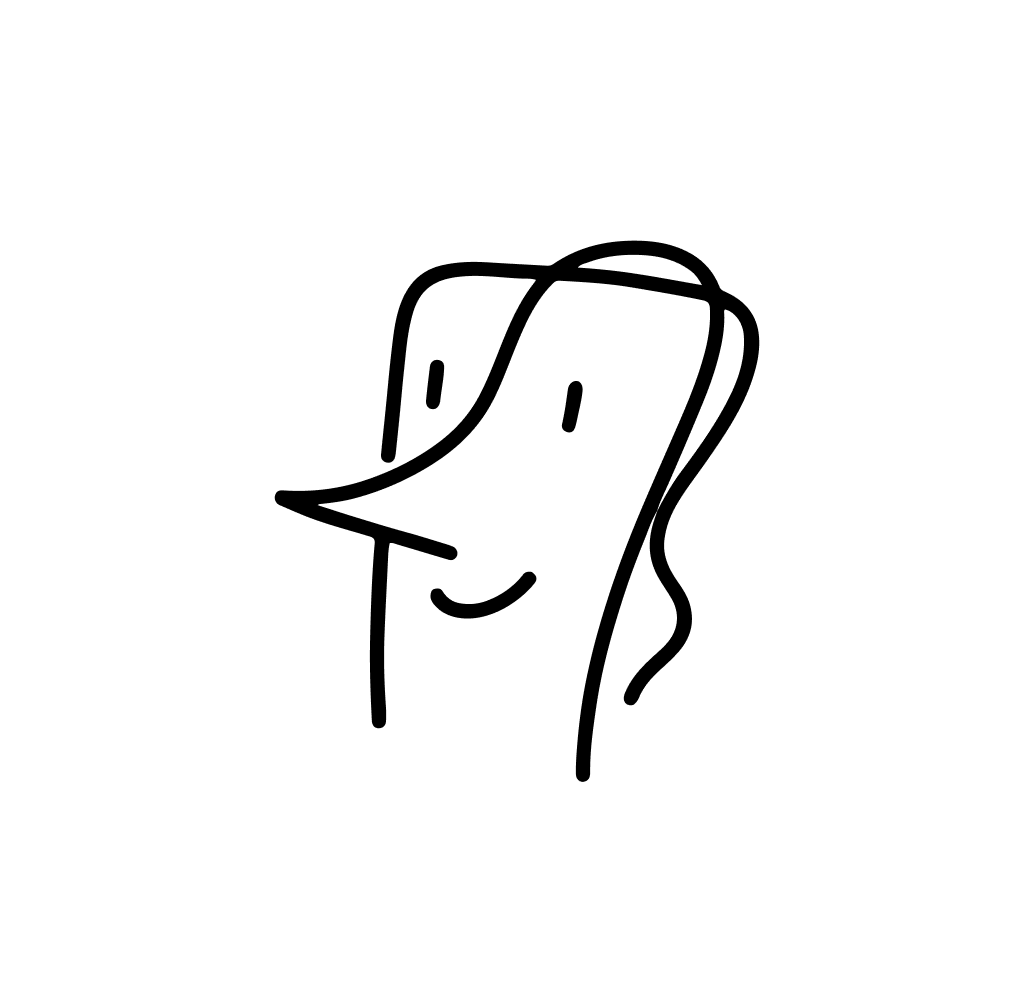
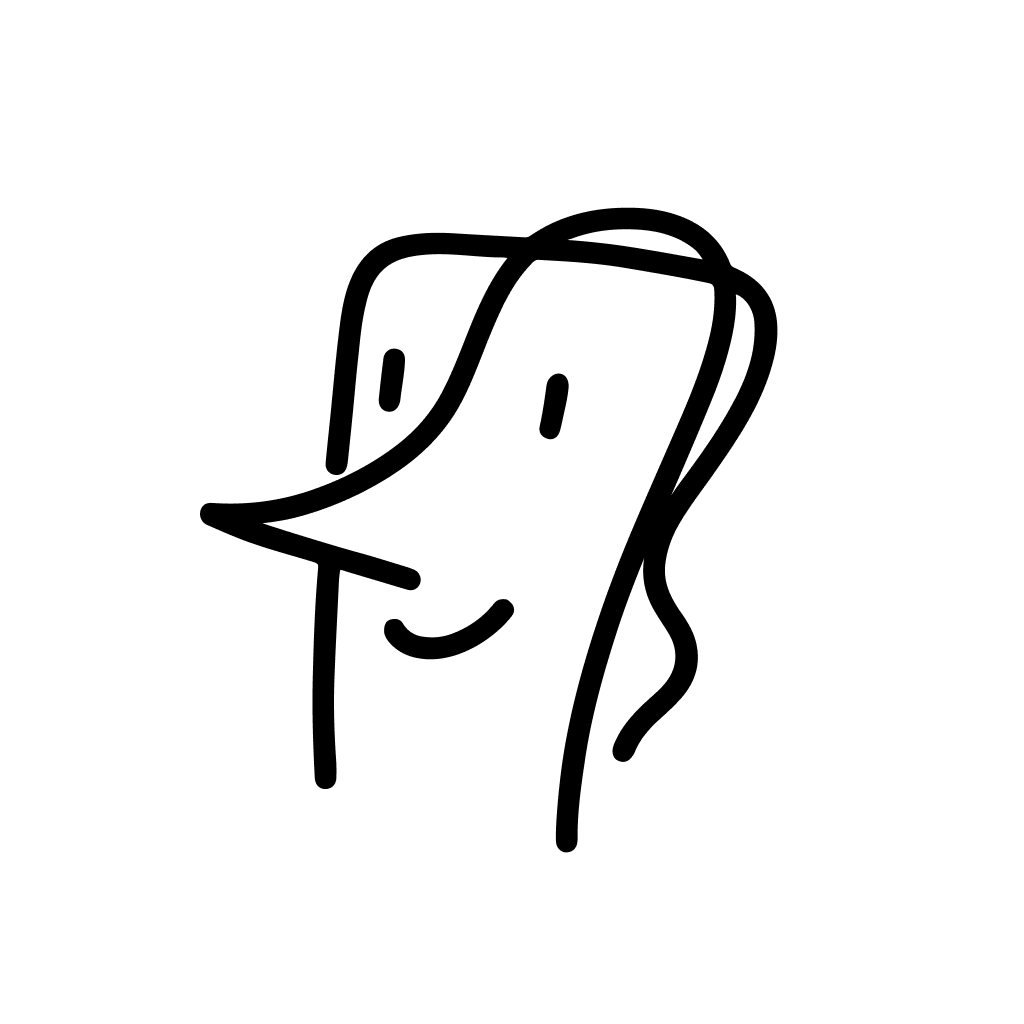
Updated: Jerry persona frontend

Changed region(s): [[0.1875, 0.1875, 0.7812, 0.8438], [0.5312, 0.3438, 0.5938, 0.4375]]

diff --git a/extension/src/popup/index.ts b/extension/src/popup/index.ts
@@ -419,8 +419,17 @@ openOptions.addEventListener("click", (e) => {
 
 // ─── Persona Picker ───
 
+const profileAvatarImg = document.getElementById("profile-avatar-img") as HTMLImageElement;
+const profileCircleEl = profileAvatarImg.closest('.profile-circle') as HTMLElement;
+
+function applyPersonaVisuals(name: string): void {
+  profileAvatarImg.src = `/${name}.png`;
+  profileAvatarImg.alt = name;
+  profileCircleEl.style.background = name === "Jerry" ? "#FDCB24" : "#fff";
+}
+
 profilePersonaSelect.addEventListener("change", () => {
-  // selection is handled natively by the <select>
+  applyPersonaVisuals(profilePersonaSelect.value);
 });
 
 // ─── Profile Popover (bottom bar) ───

diff --git a/extension/src/popup/index.html b/extension/src/popup/index.html
@@ -770,7 +770,7 @@
       <div class="profile-section">
         <div class="profile-circle-area">
           <div class="profile-circle">
-            <img src="/Terry.png" alt="Terry" style="width:100%;height:100%;object-fit:contain;border-radius:50%;" />
+            <img id="profile-avatar-img" src="/Terry.png" alt="Terry" style="width:100%;height:100%;object-fit:contain;border-radius:50%;" />
           </div>
           <div class="profile-name-wrap">
             <select id="profile-persona-select" class="profile-persona-select">
